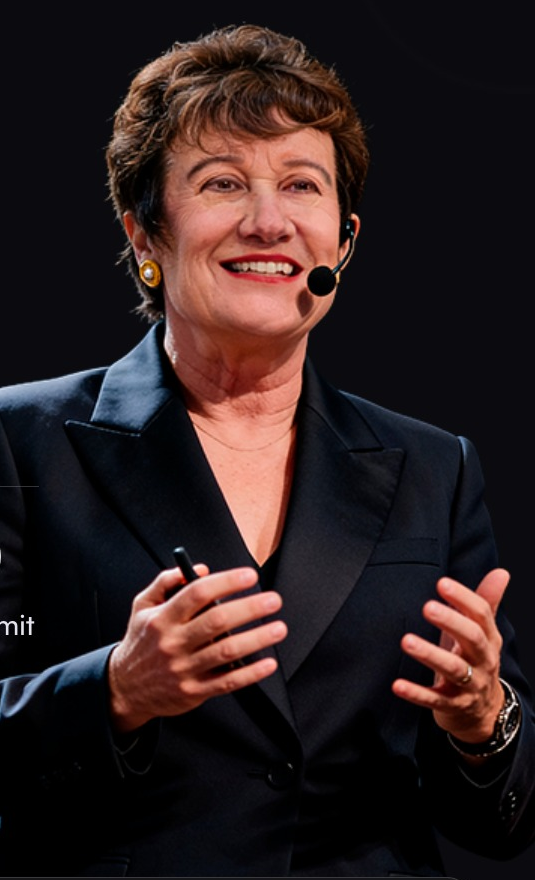
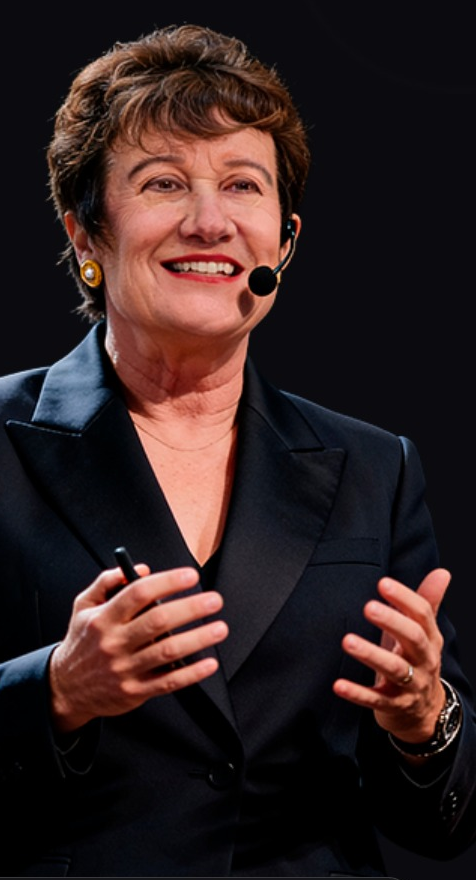
Renomeia a rota para /christina-maslach e dá thumbnail própria a ela
Rota
- /cristina-maslach -> /christina-maslach (grafia correta do nome da
  pesquisadora). Atualiza o link da home, o og:url da página, o README e
  o comentário da coluna convite no Supabase. Os valores gravados na
  coluna não mudam: seguem "Amy Edmondson" e "Christina Maslach".

Thumbnail
- tools/og-image.html vira tools/og-edmondson.html e ganha o par
  tools/og-maslach.html; o gerador agora percorre uma lista e produz as
  duas de uma vez. A página da Christina passa a apontar para a sua.
- O recorte placeholder do hero foi refeito começando 60px mais à
  direita: o corte anterior ainda trazia um resto do texto queimado do
  PDF, que aparecia como fantasma sobre o peito dela na thumbnail.
- Com a foto mais estreita, o título da tela 1 foi solto de 620 para
  780u — estava quebrando em 6 linhas contra as 4 do PDF. A tela 1 agora
  fecha exatamente em 1080x1920.

Verificado: as três rotas respondem, /cristina-maslach devolve 404, e o
fluxo do formulário passa nas duas páginas (máscaras, CPF inválido
bloqueando, payload com o convite certo).

Claude-Session: https://claude.ai/code/session_011jAk7tdkyZ6RXMpagJ52hQ

diff --git a/tools/og-maslach.html b/tools/og-maslach.html
@@ -1,0 +1,246 @@
+<!DOCTYPE html>
+<html lang="pt-BR">
+<head>
+<meta charset="utf-8">
+<title>OG image — Convite Christina Maslach</title>
+<!--
+  Fonte da imagem de preview (WhatsApp, e-mail, Slack, LinkedIn).
+  Não é uma página do site: existe só para ser rasterizada em
+  public/assets/og-image-maslach.png por tools/og-image.mjs.
+
+  Formato 1200 × 630 (1.91:1) — o que o WhatsApp usa para o card
+  grande de link. Ao editar, rode `npm run og` para regerar o PNG.
+-->
+<link rel="preconnect" href="https://api.fontshare.com">
+<link rel="preconnect" href="https://cdn.fontshare.com" crossorigin>
+<link rel="stylesheet" href="https://api.fontshare.com/v2/css?f%5B%5D=satoshi@400,700,900&amp;display=block">
+<style>
+  :root {
+    --ink: #0b0b0f;
+    --green: #68ee95;
+    --orange: #ff7057;
+    --font: "Satoshi", system-ui, -apple-system, "Segoe UI", Roboto, Helvetica, Arial, sans-serif;
+  }
+
+  * { box-sizing: border-box; }
+
+  body {
+    margin: 0;
+    background: #08080b;
+    font-family: var(--font);
+  }
+
+  .og {
+    position: relative;
+    width: 1200px;
+    height: 630px;
+    overflow: hidden;
+    background: var(--ink);
+    color: #fff;
+  }
+
+  .og__glow {
+    position: absolute;
+    border-radius: 50%;
+    pointer-events: none;
+  }
+
+  .og__glow--green {
+    top: -280px;
+    right: -180px;
+    width: 780px;
+    height: 780px;
+    background: radial-gradient(circle, rgba(104, 238, 149, 0.12) 0%, rgba(11, 11, 15, 0) 70%);
+  }
+
+  .og__glow--purple {
+    bottom: -300px;
+    left: -220px;
+    width: 700px;
+    height: 700px;
+    background: radial-gradient(circle, rgba(152, 67, 255, 0.16) 0%, rgba(11, 11, 15, 0) 70%);
+  }
+
+  /* Recorte da Amy: o original corta reto na altura do peito,
+     então o mask dissolve a borda no fundo. */
+  .og__photo {
+    position: absolute;
+    right: 0;
+    bottom: -40px;
+    width: 356px;
+    height: auto;
+    display: block;
+    /* PLACEHOLDER: recorte tirado do PDF, corta reto à esquerda.
+       O mask dissolve a borda esquerda e a base no fundo. */
+    -webkit-mask-image: linear-gradient(to right, transparent 0%, #000 26%),
+                        linear-gradient(to bottom, #000 88%, transparent 100%);
+    -webkit-mask-composite: source-in;
+    mask-image: linear-gradient(to right, transparent 0%, #000 26%),
+                linear-gradient(to bottom, #000 88%, transparent 100%);
+    mask-composite: intersect;
+  }
+
+  .og__content {
+    position: relative;
+    display: flex;
+    flex-direction: column;
+    justify-content: space-between;
+    height: 100%;
+    padding: 52px 56px 46px;
+  }
+
+  .og__lockup {
+    align-self: flex-start;
+    flex: none;
+    height: 66px;
+    width: auto;
+    display: block;
+  }
+
+  .og__main {
+    display: flex;
+    flex-direction: column;
+    gap: 20px;
+    max-width: 700px;
+  }
+
+  .og__eyebrow {
+    display: flex;
+    align-items: center;
+    gap: 16px;
+  }
+
+  .og__rule {
+    width: 44px;
+    height: 3px;
+    background: var(--green);
+    display: block;
+  }
+
+  .og__label {
+    color: var(--green);
+    font-size: 19px;
+    font-weight: 700;
+    letter-spacing: 0.14em;
+    text-transform: uppercase;
+  }
+
+  .og__pill {
+    padding: 8px 20px;
+    border-radius: 100px;
+    background: var(--green);
+    color: var(--ink);
+    font-size: 17px;
+    font-weight: 900;
+    letter-spacing: 0.08em;
+    text-transform: uppercase;
+  }
+
+  .og__title {
+    margin: 0;
+    font-size: 58px;
+    font-weight: 900;
+    line-height: 0.94;
+    letter-spacing: -0.03em;
+    text-transform: uppercase;
+    text-wrap: balance;
+  }
+
+  .og__meta {
+    display: flex;
+    flex-direction: column;
+    gap: 10px;
+  }
+
+  .og__when {
+    display: flex;
+    align-items: baseline;
+    gap: 14px;
+    margin: 0;
+    font-size: 34px;
+    font-weight: 900;
+    letter-spacing: -0.01em;
+    white-space: nowrap;
+  }
+
+  .og__bullet { color: var(--green); }
+
+  .og__place {
+    margin: 0;
+    color: rgba(255, 255, 255, 0.7);
+    font-size: 22px;
+    font-weight: 400;
+  }
+
+  .og__footer {
+    display: flex;
+    align-items: center;
+    justify-content: space-between;
+    gap: 28px;
+    padding-top: 26px;
+    border-top: 1px solid rgba(143, 143, 163, 0.25);
+    max-width: 730px;
+  }
+
+  .og__seal {
+    display: flex;
+    align-items: center;
+    gap: 10px;
+    margin: 0;
+    color: var(--orange);
+    font-size: 15px;
+    font-weight: 700;
+    letter-spacing: 0.05em;
+    text-transform: uppercase;
+    white-space: nowrap;
+  }
+
+  .og__seal-mark {
+    width: 9px;
+    height: 9px;
+    background: var(--orange);
+    display: block;
+  }
+
+  .og__inclui {
+    margin: 0;
+    color: var(--green);
+    font-size: 15px;
+    font-weight: 700;
+    letter-spacing: 0.05em;
+    text-transform: uppercase;
+    white-space: nowrap;
+  }
+</style>
+</head>
+<body>
+<div class="og" id="og">
+  <div class="og__glow og__glow--green"></div>
+  <div class="og__glow og__glow--purple"></div>
+
+  <img class="og__photo" src="../public/assets/christina-maslach-PLACEHOLDER.png" alt="">
+
+  <div class="og__content">
+    <img class="og__lockup" src="../public/assets/summit-lockup.png" alt="Mind Summit 2026">
+
+    <div class="og__main">
+      <div class="og__eyebrow">
+        <span class="og__rule"></span>
+        <span class="og__label">Almoço fechado</span>
+        <span class="og__pill">17 de setembro</span>
+      </div>
+      <h1 class="og__title">Há um lugar reservado para você nesta mesa.</h1>
+      <div class="og__meta">
+        <p class="og__when"><span>17 SET</span><span class="og__bullet">•</span><span>13H30</span></p>
+        <p class="og__place">São Paulo Expo · durante o Mind Summit 2026</p>
+      </div>
+    </div>
+
+    <div class="og__footer">
+      <p class="og__seal"><span class="og__seal-mark"></span>Convite pessoal · Não transferível</p>
+      <p class="og__inclui">Almoço + 2 dias de Summit</p>
+    </div>
+  </div>
+</div>
+</body>
+</html>

diff --git a/public/christina-maslach/index.html b/public/christina-maslach/index.html
@@ -13,14 +13,13 @@
 <meta property="og:site_name" content="Mind Summit 2026">
 <meta property="og:title" content="Há um lugar reservado para você nesta mesa">
 <meta property="og:description" content="Almoço fechado com Christina Maslach — 17 de setembro, 13h30 · São Paulo Expo. Uma conversa franca entre líderes que tomam decisões sobre pessoas e organizações.">
-<meta property="og:url" content="https://convite.mindsummit.company/cristina-maslach">
-<!-- TODO: gerar a thumbnail desta página (tools/og-image.html tem só a da Amy) -->
-<meta property="og:image" content="https://convite.mindsummit.company/assets/og-image.png">
+<meta property="og:url" content="https://convite.mindsummit.company/christina-maslach">
+<meta property="og:image" content="https://convite.mindsummit.company/assets/og-image-maslach.png">
 <meta property="og:image:type" content="image/png">
 <meta property="og:image:width" content="1200">
 <meta property="og:image:height" content="630">
 <meta name="twitter:card" content="summary_large_image">
-<meta name="twitter:image" content="https://convite.mindsummit.company/assets/og-image.png">
+<meta name="twitter:image" content="https://convite.mindsummit.company/assets/og-image-maslach.png">
 
 <link rel="icon" href="../assets/simbolo-mind.svg" type="image/svg+xml">
 
@@ -41,7 +40,7 @@
   <div class="glow glow--green" aria-hidden="true"></div>
   <div class="glow glow--purple" aria-hidden="true"></div>
 
-  <img class="hero__foto" src="../assets/christina-maslach-PLACEHOLDER.png" alt="Christina Maslach" width="535" height="880">
+  <img class="hero__foto" src="../assets/christina-maslach-PLACEHOLDER.png" alt="Christina Maslach" width="476" height="880">
 
   <div class="tela__conteudo">
     <header class="header">

diff --git a/public/assets/css/maslach.css b/public/assets/css/maslach.css
@@ -67,15 +67,17 @@
   gap: calc(var(--u) * 52);
 }
 
-/* o texto para antes da foto: sem essas larguras o lead invade o rosto */
-.tela--convite .intro__lead,
-.tela--convite .intro__title { max-width: calc(var(--u) * 620); }
+/* O texto para antes da foto — sem isso o lead invade o rosto. O título
+   pode ir mais longe que o lead porque a borda esquerda da foto é
+   dissolvida pelo mask. */
+.tela--convite .intro__title { max-width: calc(var(--u) * 780); }
+.tela--convite .intro__lead { max-width: calc(var(--u) * 600); }
 
 .hero__foto {
   position: absolute;
   right: 0;
   bottom: calc(var(--u) * 172);
-  width: calc(var(--u) * 535);
+  width: calc(var(--u) * 476);
   height: auto;
   /* O recorte do PDF corta reto à esquerda (o texto estava queimado
      por cima da foto): o mask dissolve essa borda no fundo. */

diff --git a/public/index.html b/public/index.html
@@ -57,7 +57,7 @@
           </div>
         </a>
 
-        <a class="convite" href="cristina-maslach">
+        <a class="convite" href="christina-maslach">
           <img class="convite__foto" src="assets/lineup-maslach.png" alt="" width="461" height="297">
           <div class="convite__info">
             <p class="convite__data">17 set · 13h30</p>

diff --git a/README.md b/README.md
@@ -7,7 +7,7 @@ Duas peças de convite digital para os almoços fechados com **Amy Edmondson** (
 |---|---|
 | `/` | Home: seleção entre os dois convites |
 | `/amy-edmondson` | Convite da Amy — pôster 1080 × 1920 (9:16) numa tela |
-| `/cristina-maslach` | Convite da Christina — três telas de scroll (convite, line-up, "não é só palestra") |
+| `/christina-maslach` | Convite da Christina — três telas de scroll (convite, line-up, "não é só palestra") |
 
 Publicado em `https://convite.mindsummit.company`.
 
@@ -27,11 +27,12 @@ npm start            # ou: npx serve public
 |---|---|
 | `public/index.html` + `assets/css/home.css` | Home |
 | `public/amy-edmondson/index.html` | Convite da Amy |
-| `public/cristina-maslach/index.html` + `assets/css/maslach.css` | Convite da Christina |
+| `public/christina-maslach/index.html` + `assets/css/maslach.css` | Convite da Christina |
 | `public/styles.css` | Design system (tokens) + canvas do pôster + modal e formulário, compartilhados |
 | `public/script.js` | Modal, máscaras, validação e envio do RSVP — compartilhado pelas duas páginas |
 | `public/assets/` | Imagens |
-| `tools/og-image.html` + `tools/og-image.mjs` | Thumbnail de link (1200 × 630) |
+| `tools/og-edmondson.html`, `tools/og-maslach.html` | Fontes das thumbnails de link (1200 × 630) |
+| `tools/og-image.mjs` | Rasteriza as duas em `public/assets/og-image*.png` |
 | `wrangler.jsonc` | Deploy (Cloudflare Workers Static Assets) |
 | `docs/handoff/` | Handoff de design do convite da Amy |
 
@@ -89,6 +90,26 @@ Christina centraliza o conteúdo e o line-up passa de 2×2 para 4 colunas.
 **Além dos protótipos.** Foco preso no modal, `Esc`, `inert` no fundo, retorno de foco ao CTA,
 máscaras de WhatsApp e CPF, estados de enviando/sucesso/erro e `prefers-reduced-motion`.
 
+## Thumbnails de link (WhatsApp)
+
+Cada convite tem a sua, em 1200 × 630 — o formato que o WhatsApp usa no card grande de link:
+
+| Página | Thumbnail | Fonte |
+|---|---|---|
+| `/amy-edmondson` | `public/assets/og-image.png` | `tools/og-edmondson.html` |
+| `/christina-maslach` | `public/assets/og-image-maslach.png` | `tools/og-maslach.html` |
+
+São composições landscape próprias, não recortes dos pôsteres: em 9:16 o crawler cortaria a peça
+e sobraria o meio dela.
+
+```bash
+npm install      # Playwright, só para este script
+npm run og       # gera as duas
+```
+
+O script avisa e sai com código 1 se a Satoshi não tiver carregado, para não gerar PNG com a
+tipografia errada sem ninguém perceber.
+
 ## Pendências
 
 **Assets da página da Christina.** O material recebido foi um PDF achatado (três JPEGs de
@@ -96,25 +117,21 @@ máscaras de WhatsApp e CPF, estados de enviando/sucesso/erro e `prefers-reduced
 do line-up, as arenas e os avatares foram recortados dali e ficam corretos em 1×, mas sem folga
 para telas retina.
 
-- **A foto da Christina no hero é um placeholder** (`christina-maslach-PLACEHOLDER.png`): o texto
-  do convite estava queimado por cima dela, então só a faixa à direita saiu limpa e a borda
-  esquerda é dissolvida por um `mask`. Pedir o recorte original com fundo transparente, como o da
-  Amy, e trocar o arquivo.
+- **A foto da Christina é um placeholder** (`christina-maslach-PLACEHOLDER.png`), usada no hero e
+  na thumbnail: o texto do convite estava queimado por cima dela, então só a faixa à direita da
+  imagem saiu limpa e a borda esquerda é dissolvida por um `mask`. Pedir o recorte original com
+  fundo transparente, como o da Amy — trocar o arquivo corrige a página e a thumbnail de uma vez
+  (rodando `npm run og` depois).
 - Os demais recortes ganham qualidade se vierem os originais.
 
 **Fonte Satoshi.** Carregada da Fontshare. Trocar pelos `.woff2` licenciados que o Mind self-hosta
 (também remove a dependência de CDN de terceiros).
 
-**Thumbnail de link.** `public/assets/og-image.png` foi gerada sem a Satoshi (a Fontshare estava
-bloqueada no ambiente em que rodou), então saiu com a fonte de fallback. Rodar `npm run og` numa
-máquina com acesso à Fontshare e commitar. Falta também uma thumbnail própria da página da
-Christina — hoje ela reusa a da Amy.
+**Thumbnails de link.** As duas foram geradas sem a Satoshi (a Fontshare estava bloqueada no
+ambiente em que rodaram), então saíram com a fonte de fallback. Rodar `npm run og` numa máquina
+com acesso à Fontshare e commitar os PNGs.
 
 **URLs a confirmar.** "Ver programação completa" e "Por que levar meu time?" apontam para
 `https://mindsummit.company/` como palpite; confirmar os destinos certos.
-
-**Grafia do nome.** O PDF traz **Christina** Maslach (com "h"), que é a grafia correta da
-pesquisadora; a rota pedida foi `/cristina-maslach`. O texto das páginas usa "Christina" e a URL
-ficou como pedida — vale decidir se a URL acompanha.
 
 A copy em pt-BR foi aprovada pelo cliente palavra por palavra — **não reescrever**.
